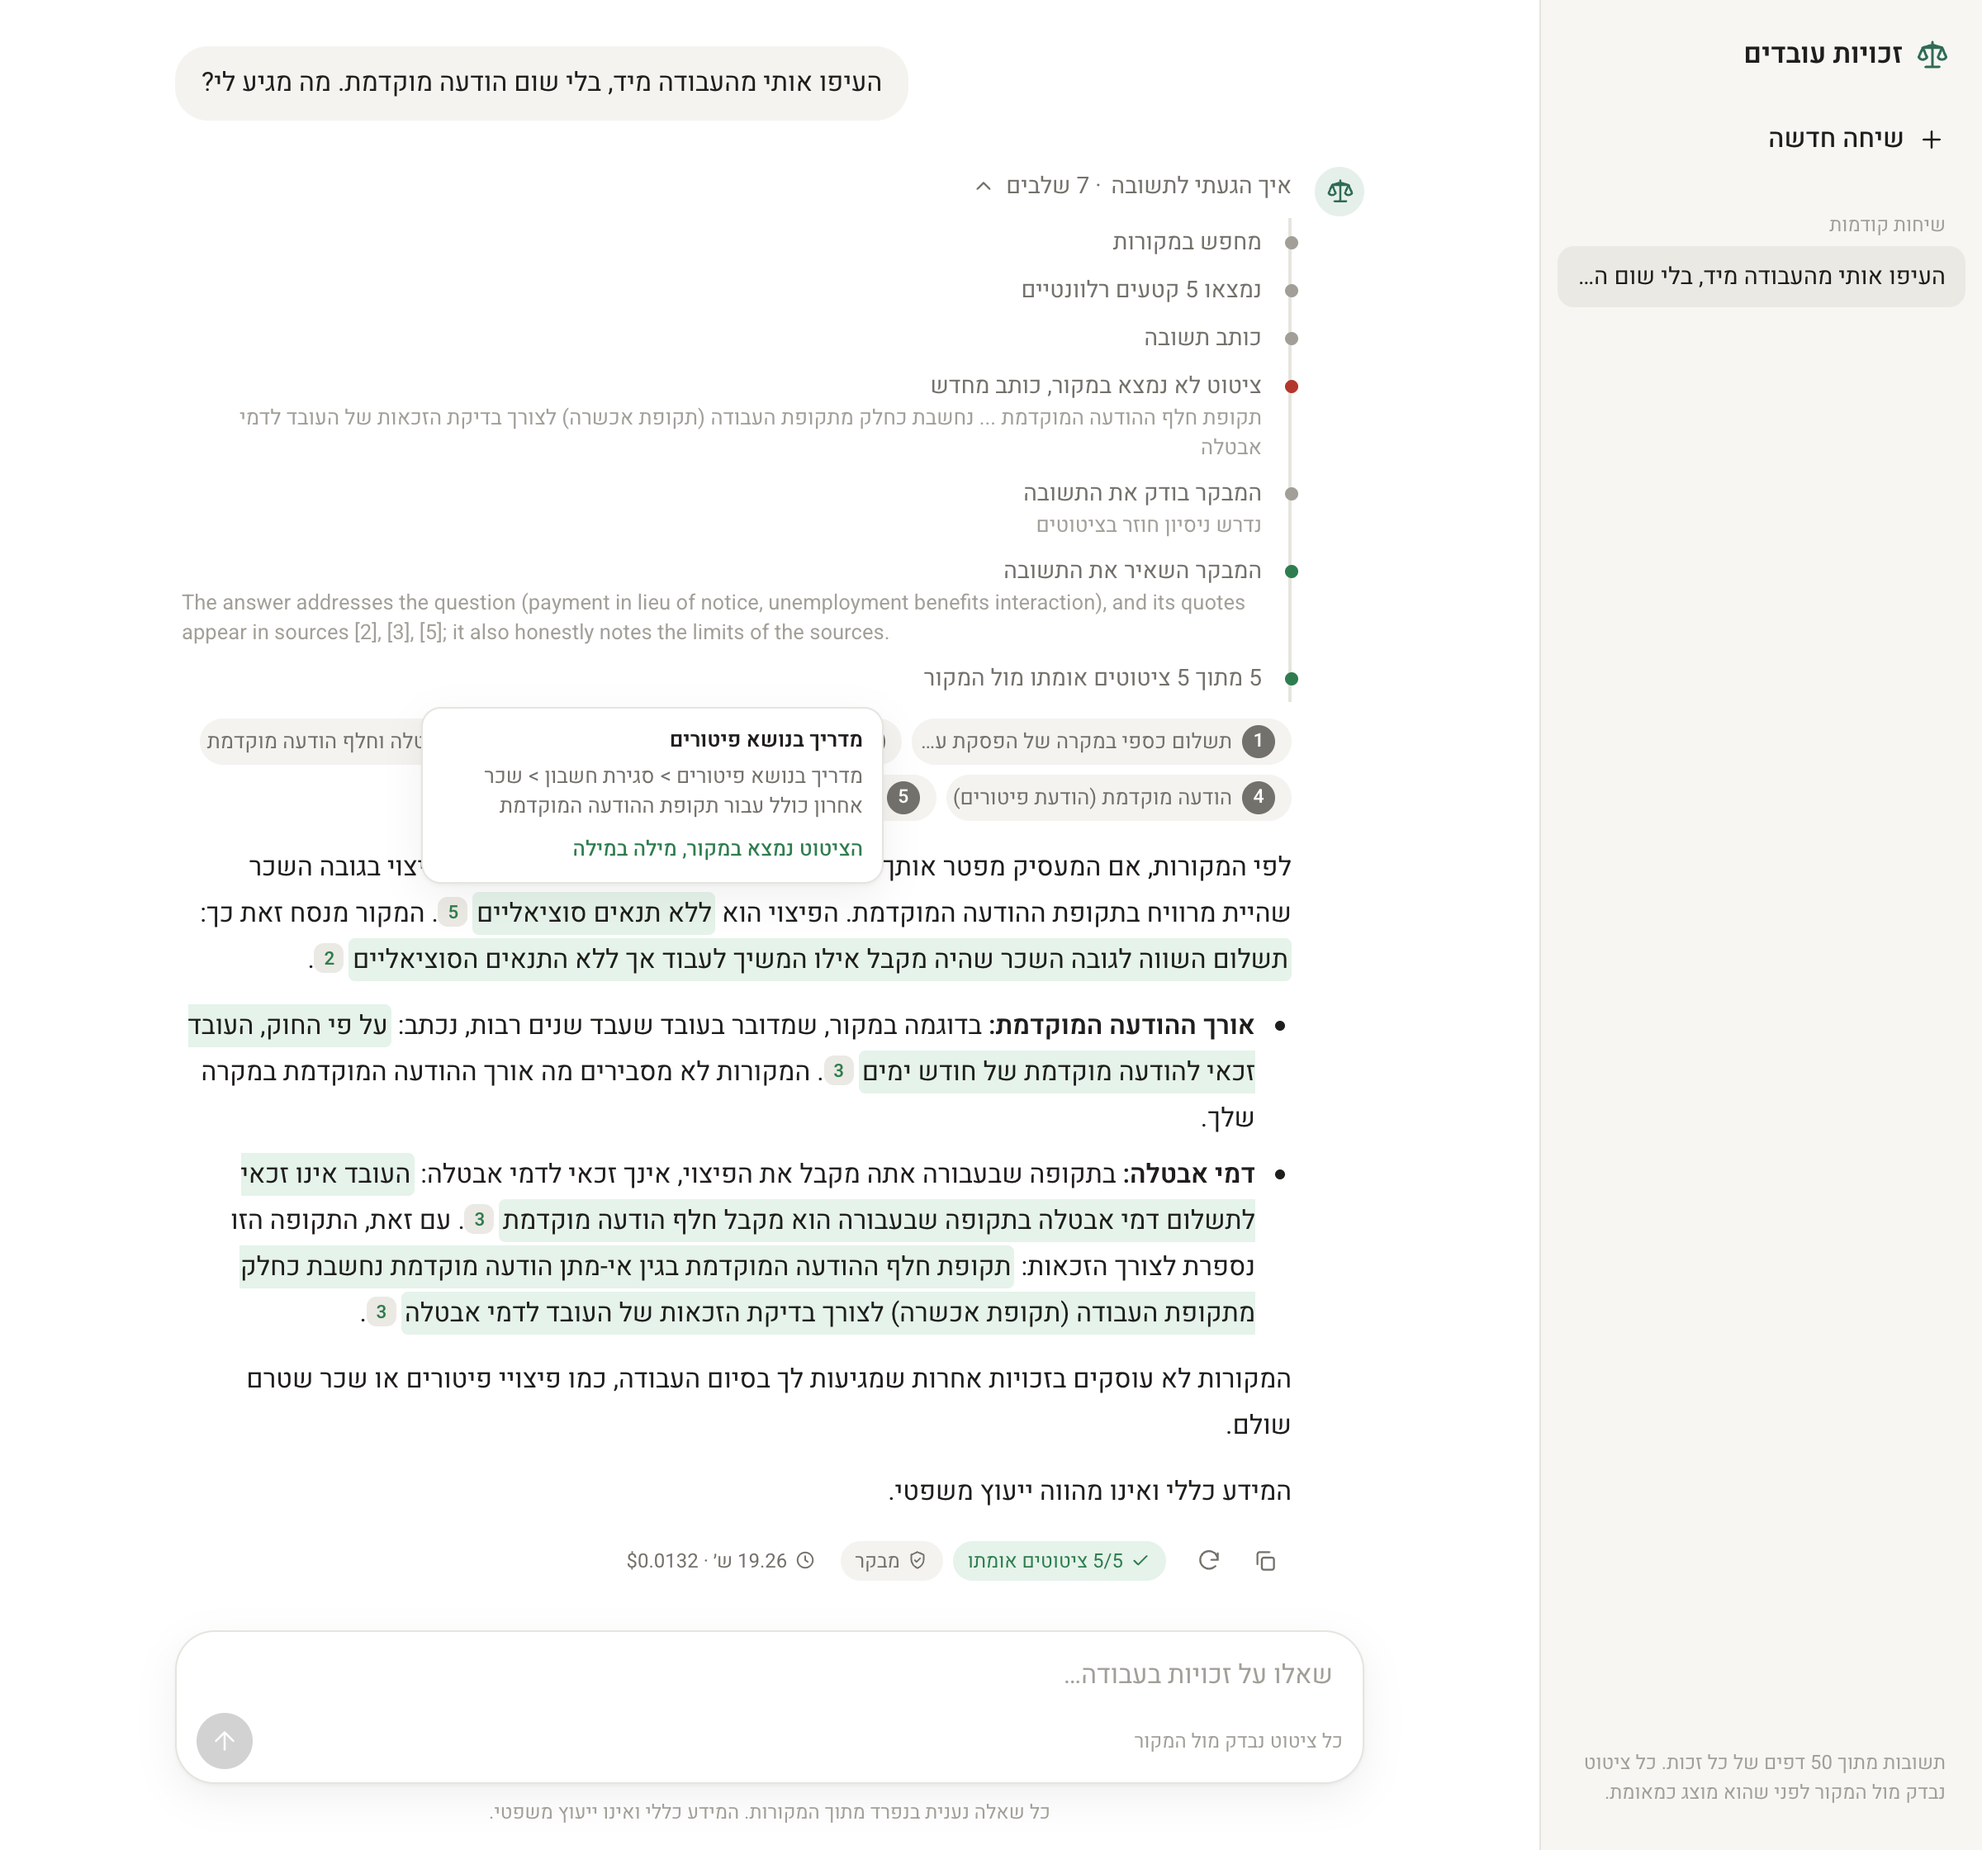
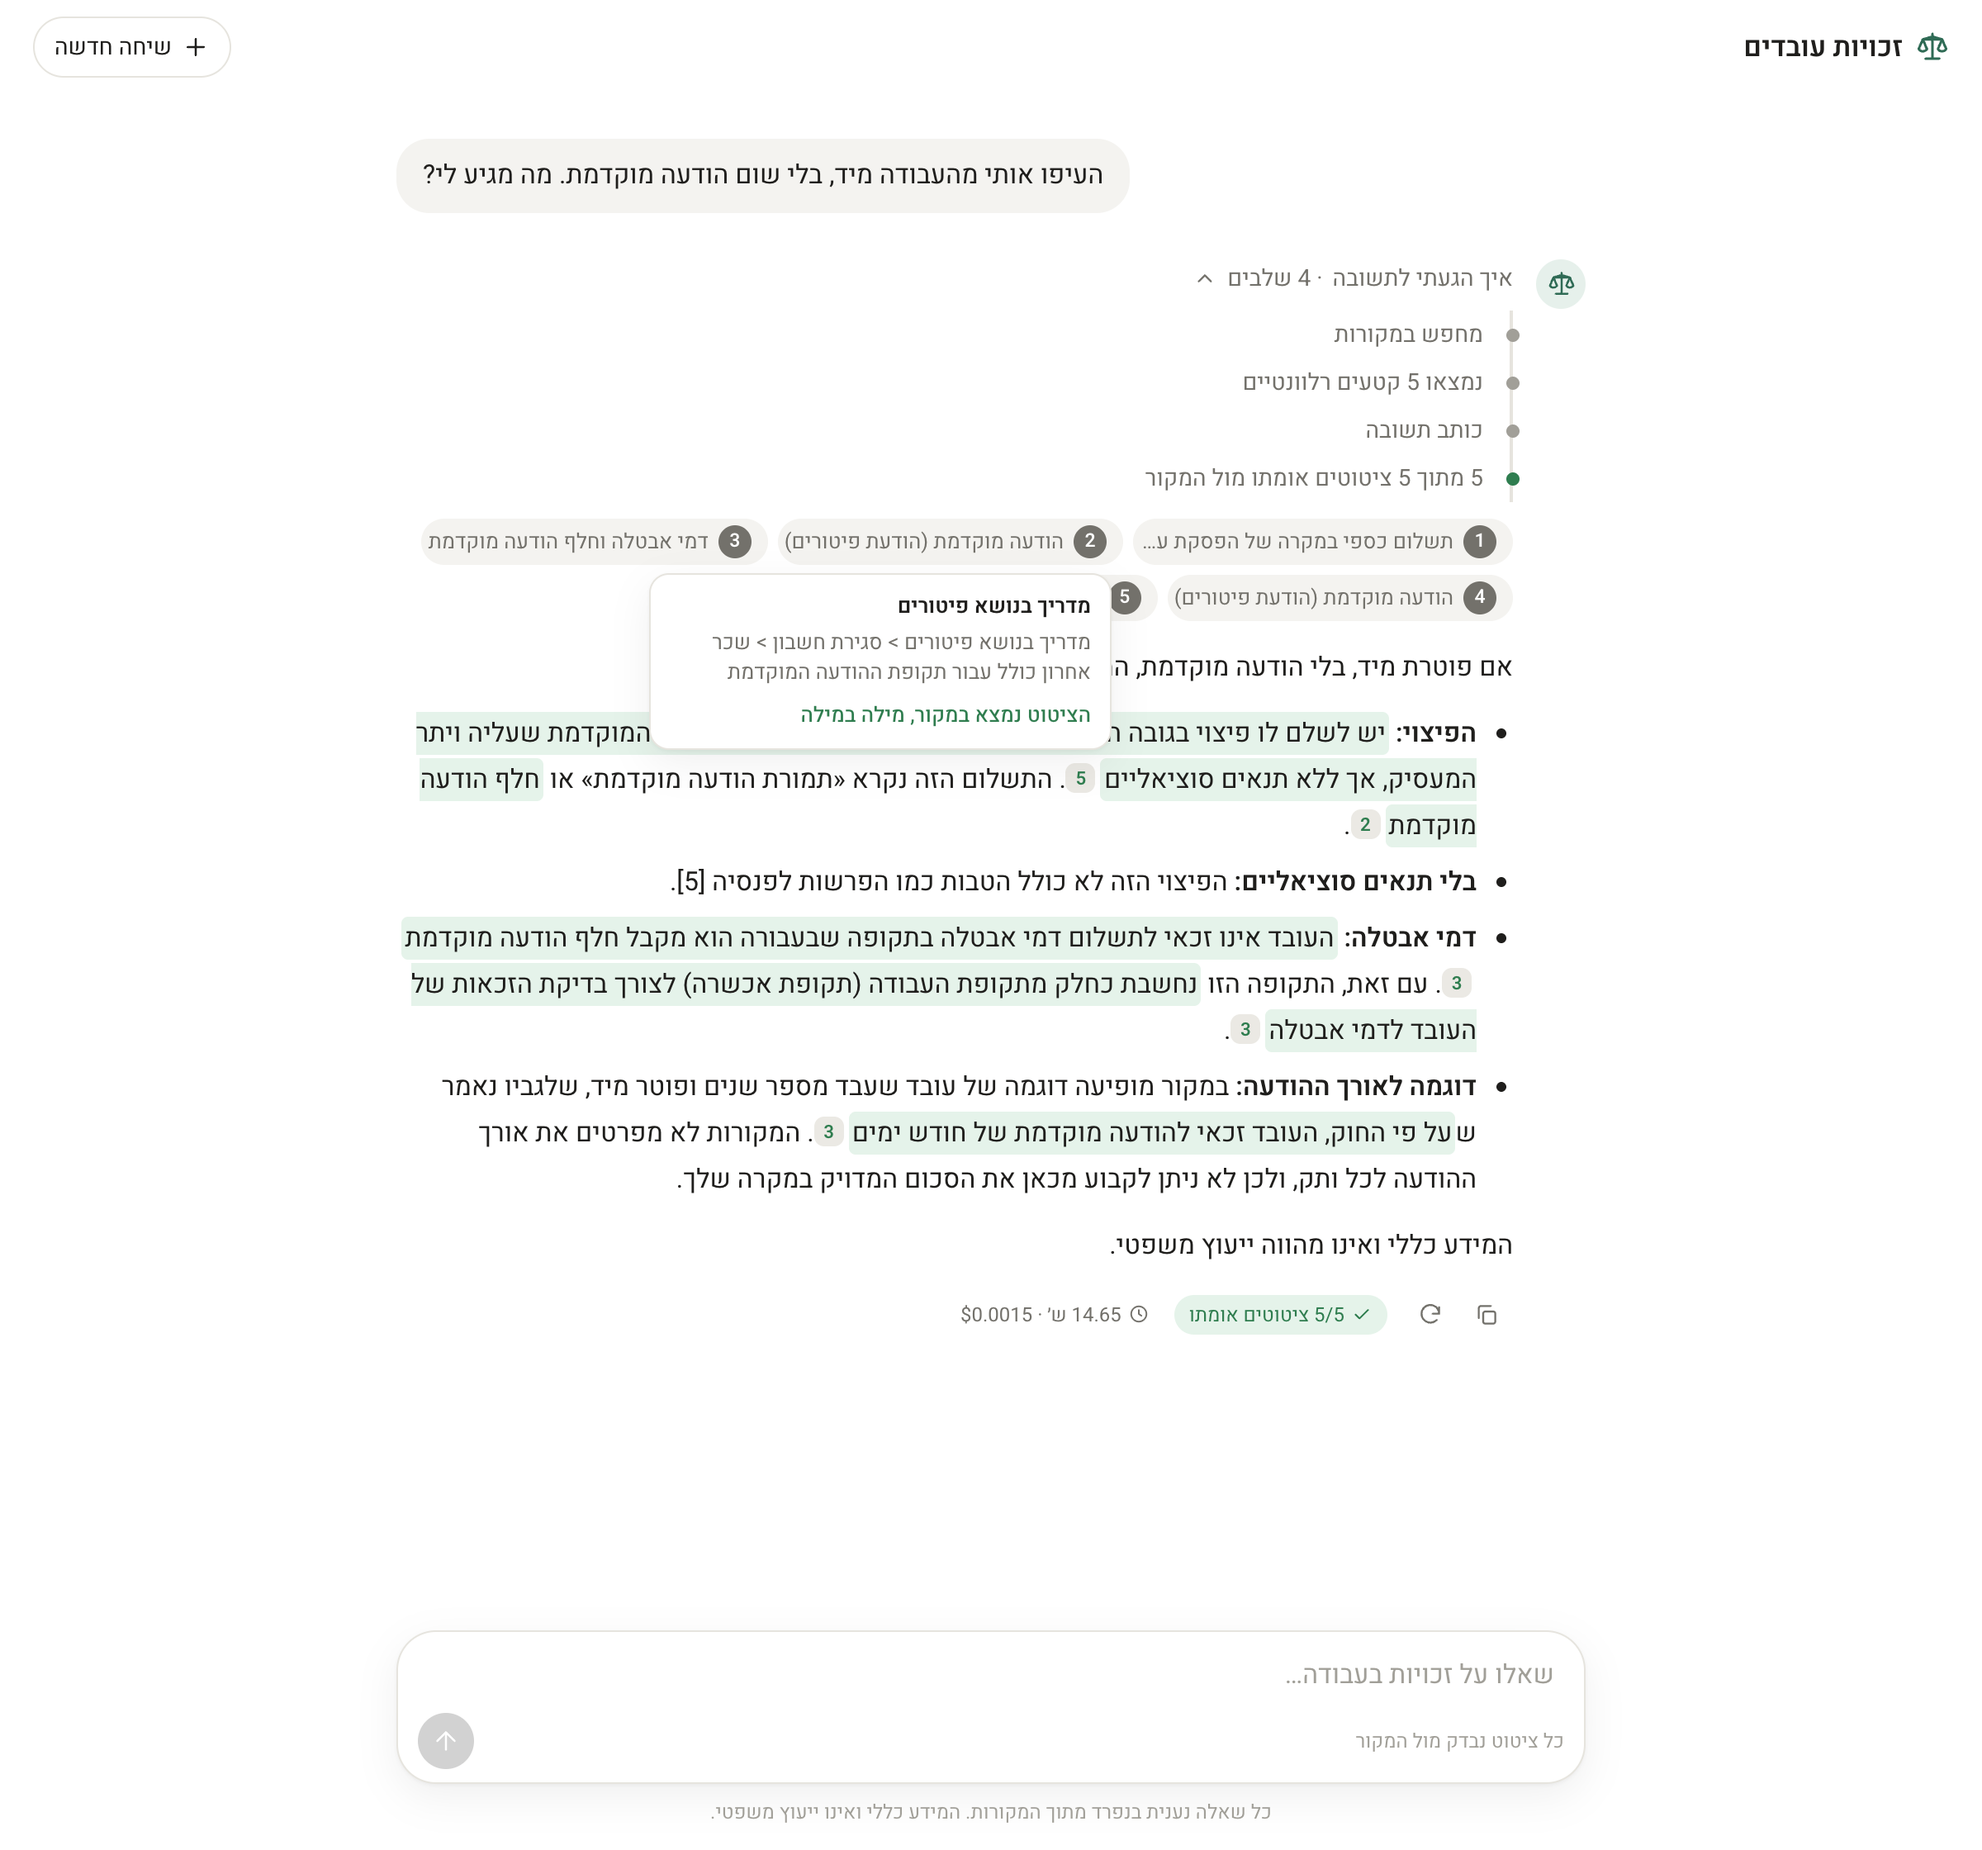
README: screenshots of the single-conversation client

diff --git a/README.md b/README.md
@@ -14,9 +14,9 @@ reported below with the ones that worked.
 
 ![An answer: the steps the system took, the sources it found, and quotes checked against them](docs/images/answer.png)
 
-*A real answer. One quote was not found word for word in its source, so the
-model rewrote the answer; a reviewer model then checked it and kept it. All
-five quotes are verified.*
+*A real answer: the steps the system took, the five passages it retrieved,
+and each quote highlighted once code has found it word for word in its
+source. Hovering a quote's number shows where it came from.*
 
 ## What it demonstrates
 
